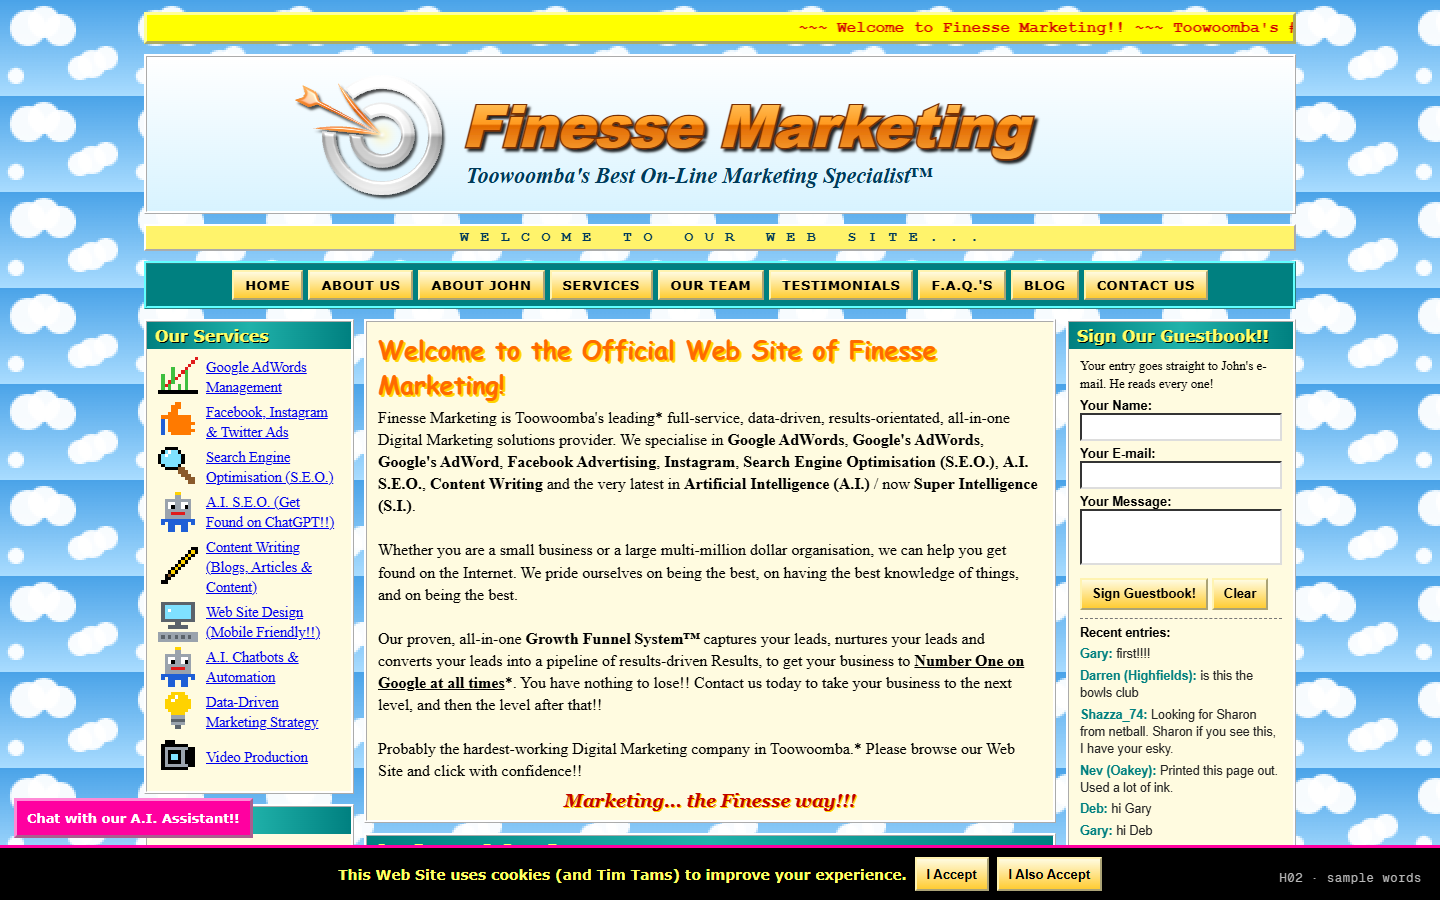
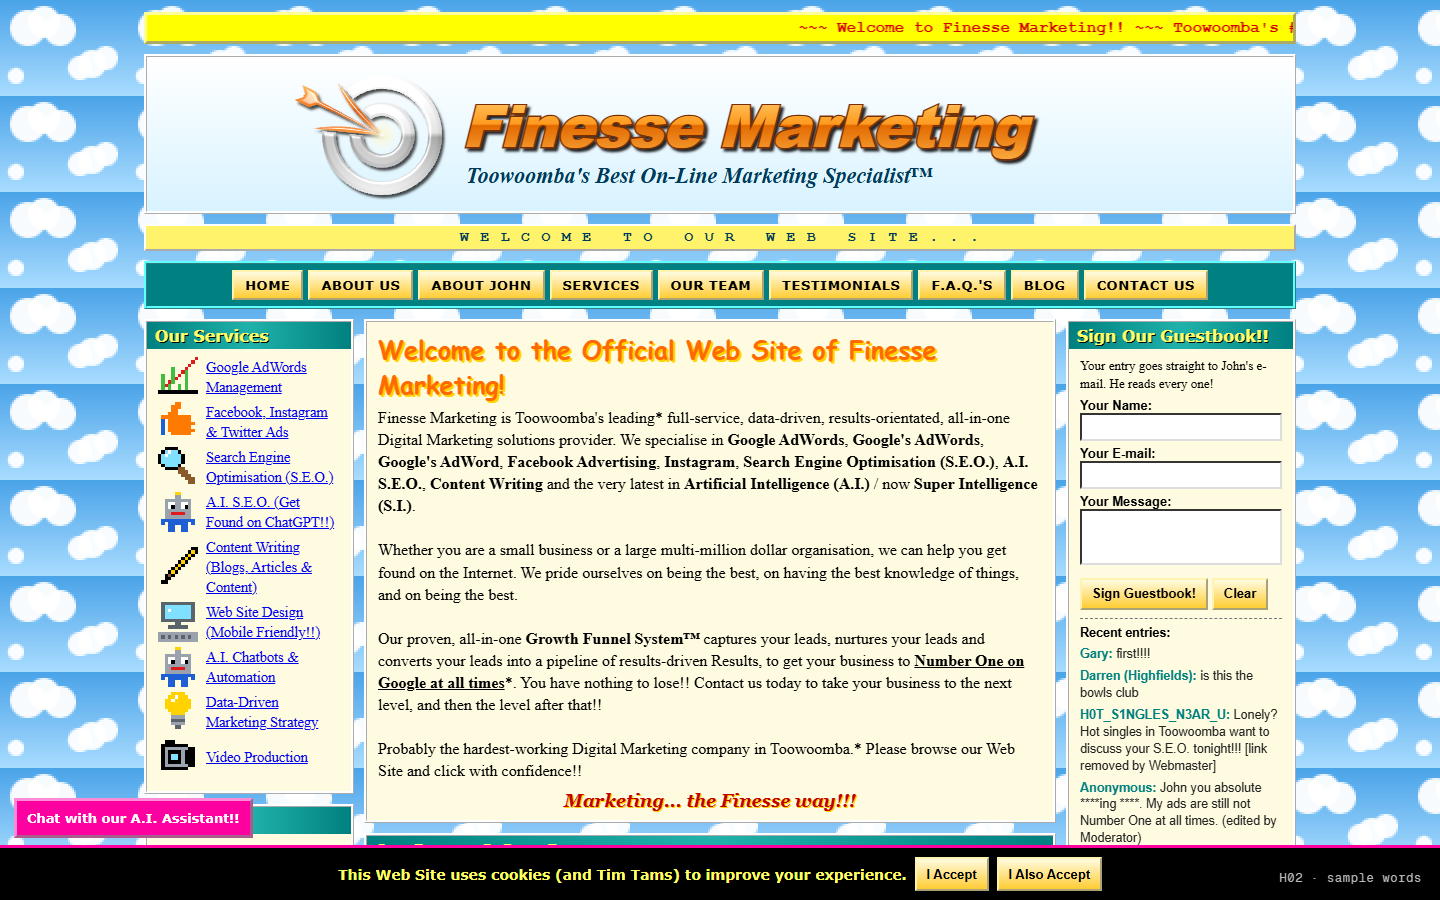
Hero ideas preview: Ninety-six 12:07 round

Changed region(s): [[0.75, 0.7778, 0.875, 0.9333]]

diff --git a/look/website-hero/ninety-six.html b/look/website-hero/ninety-six.html
@@ -99,6 +99,25 @@
 .gptl{list-style:none;margin:4px 0 4px 4px}
 .spaced{grid-column:1/-1;text-align:center;font:bold 15px "Courier New",monospace;color:#003a5a;background:#fff36b;border:2px outset #fff;padding:3px;letter-spacing:.08em}
 .slogan{font:italic bold 18px Georgia,serif;color:#c00000;text-align:center;margin:8px 0 0;text-shadow:1px 1px 0 #ffd200}
+.pk table{width:100%;font:13px Arial;border-collapse:collapse}
+.pk td{padding:4px 2px;border-bottom:1px dotted #999;vertical-align:top}
+.pk td:last-child{text-align:right;font-weight:bold;color:#c00000;white-space:nowrap}
+.pk small{font-weight:normal;color:#555}
+.rpg .menu{display:flex;gap:14px;align-items:flex-start;background:linear-gradient(#2a3fd6,#0b1470);border:3px solid #fff;outline:2px solid #000;border-radius:6px;padding:12px;color:#fff;font:bold 14px/1.35 "Courier New",monospace;text-shadow:1px 1px 0 #000}
+.rpg img{image-rendering:pixelated;flex:none;background:radial-gradient(circle at 50% 70%,rgba(255,255,255,.18),transparent 70%)}
+.rpg .st{flex:1;min-width:0}
+.rpg .nm{font-size:18px}.rpg .nm span{color:#ffd200;margin-left:8px}
+.rpg .cl{color:#9fe8ff}
+.rpg ul{list-style:none;margin-top:6px}
+.rpg li{display:grid;grid-template-columns:minmax(0,1fr) 110px 22px;gap:6px;align-items:center;font-size:13px}
+.rpg li i{height:9px;border:1px solid #fff;background:repeating-linear-gradient(90deg,#ffd200 0 9px,#ff7a00 9px 10px)}
+@media (max-width:520px){.rpg .menu{flex-direction:column;align-items:center}.rpg li{grid-template-columns:minmax(0,1fr) 70px 22px}}
+.steps{list-style:none;columns:2;column-gap:16px;font:16px/1.6 "Comic Sans MS","Comic Sans",cursive}
+.steps b{color:#ff6a00}
+.bundle{border:2px dashed #008080;background:#fff;padding:6px 7px;margin:6px 0;font:13px/1.35 Arial}
+.bundle b{display:block;color:#004a4a}
+.bundle .price{display:block;font:900 17px Impact,"Arial Black",sans-serif;color:#d40000}
+.bundle ul{margin:3px 0 0 16px}
 .kw{grid-column:1/-1;font:12px/1.5 Arial,sans-serif;color:#2b5d7a;text-align:justify;background:rgba(255,255,255,.55);padding:6px 8px;word-spacing:1px}
 .cookie{position:sticky;bottom:0;z-index:4;display:flex;flex-wrap:wrap;gap:8px;align-items:center;justify-content:center;background:#000;color:#ffff66;font:bold 14px Verdana,Arial,sans-serif;padding:9px;border-top:3px solid #ff00a0}
 .cookie button{font:bold 13px Arial;background:linear-gradient(#fffbe0,#ffcc33);border:2px outset #fff3b0;padding:4px 10px;min-height:34px;cursor:pointer}
@@ -223,14 +242,13 @@
       <div class="box welcome"><h2 title="Heading (welcome)">Welcome to the Official Web Site of Finesse Marketing!</h2>
         <p>Finesse Marketing is Toowoomba's leading* full-service, data-driven, results-orientated, all-in-one Digital Marketing solutions provider. We specialise in <b>Google AdWords</b>, <b>Google's AdWords</b>, <b>Google's AdWord</b>, <b>Facebook Advertising</b>, <b>Instagram</b>, <b>Search Engine Optimisation (S.E.O.)</b>, <b>A.I. S.E.O.</b>, <b>Content Writing</b> and the very latest in <b>Artificial Intelligence (A.I.)</b> / now <b>Super Intelligence (S.I.)</b>.<br><br>Whether you are a small business or a large multi-million dollar organisation, we can help you get found on the Internet. We pride ourselves on being the best, on having the best knowledge of things, and on being the best.<br><br>Our proven, all-in-one <b>Growth Funnel System&#8482;</b> captures your leads, nurtures your leads and converts your leads into a pipeline of results-driven Results, to get your business to <b><u>Number One on Google at all times</u></b>*. You have nothing to lose!! Contact us today to take your business to the next level, and then the level after that!!<br><br>Probably the hardest-working Digital Marketing company in Toowoomba.* Please browse our Web Site and click with confidence!!</p>
         <p class="slogan">Marketing... the Finesse way!!!</p></div>
-      <div class="box"><h3>Our Proven 3-Step Process</h3><p style="text-align:center;font:bold 18px 'Comic Sans MS','Comic Sans',cursive"><span style="color:#ff6a00">Step 1:</span> Funnel &nbsp;&#8594;&nbsp; <span style="color:#ff6a00">Step 2:</span> Also Funnel &nbsp;&#8594;&nbsp; <span style="color:#ff6a00">Step 3:</span> Results!!</p></div>
+      <div class="box"><h3>Our Proven 3-Step Process</h3><ol class="steps"><li><b>Step 1:</b> Funnel</li><li><b>Step 2:</b> Grow Your Funnel</li><li><b>Step 3:</b> Results!!</li><li><b>Step 4:</b> Retention</li><li><b>Step 5:</b> Re-Funnel the Retention</li><li><b>Step 3b:</b> Synergy (see Step 2)</li><li><b>Step 0:</b> Awareness (do this first)</li></ol><p style="font:12px Arial;text-align:center">All steps are proven.</p></div>
       <div class="box"><h3>What's New? <span class="new">NEW!</span></h3><ul class="news">
         <li>17-11-2026: We have updated our Web Site. Can you spot the change? (It is this sentence.)</li>
         <li>12-11-2026: Our Head of A.I. has been promoted to <b>Senior</b> Head of A.I. Congratulations John.</li>
         <li>03-11-2026: We now accept <b>Instagram</b>.</li>
         <li>28-10-2026: The office printer is working again. Thank you for your patience during this time.</li>
         <li>14-10-2026: <b>S.I.</b> is here. We are still reading the manual.</li>
-        <li>19-09-2026: Staff Christmas party confirmed. Table for one.</li>
         <li>05-09-2026: Our Google+ page has reached 1 follower.</li>
         <li>21-08-2026: We tried a new font. We have gone back to the old font.</li>
         <li>08-08-2026: The "What's New?" box is new. Welcome to the "What's New?" box.</li></ul></div>
@@ -248,6 +266,12 @@
         <div><img data-sprite="john" alt="" width="72" height="90">John Hewitt<br><b>Head of A.I.</b></div>
         <div><img data-sprite="john" alt="" width="72" height="90" title="John Hewitt (centre, left and right)">John Hewitt<br><b>Work Experience</b></div></div>
         <p style="text-align:center;font:13px Arial;margin-top:8px"><b>Employee of the Month:</b> John Hewitt (47 months running). "A real team player," says John Hewitt.<br>Last Friday the whole team did a trust fall. We do not recommend it for teams of one.</p></div>
+      <div class="box rpg"><h3>John's Stats</h3>
+        <div class="menu"><img data-sprite="knight" alt="Pixel art of John Hewitt as a knight with a bullseye shield" width="136" height="192" title="John Hewitt, Marketing Knight (Level 99)">
+        <div class="st"><p class="nm">JOHN <span>LV 99</span></p><p class="cl">Class: Marketing Knight</p><p>HP 9999/9999</p><p>MP &nbsp;999/999</p>
+        <ul>
+          <li>Google AdWords<i></i>10</li><li>Google's AdWords<i></i>10</li><li>Facebook<i></i>10</li><li>Twitter<i></i>10</li><li>MySpace<i></i>10</li><li>S.E.O.<i></i>10</li><li>A.I.<i></i>10</li><li>S.I.<i></i>10</li><li>Funnels<i></i>10</li><li>Synergy<i></i>10</li><li>Content Writing<i></i>10</li><li>Humility<i></i>10</li>
+        </ul></div></div></div>
       <div class="box"><h3>Our Values</h3><p class="mission" style="font-style:normal;font-weight:bold">Integrity. Excellence. Integrity. Google. Parking at rear.</p></div>
       <div class="box rant"><h3>A Message From John: Why We Will NEVER Use A.I. Slop</h3>
         <p class="gpt">Certainly! Here is a heartfelt, authentic rant about A.I. slop for your business website:</p>
@@ -261,13 +285,15 @@
         <p class="gpt">Would you like me to make it more personal, or add a call to action at the end?</p></div>
       <div class="box mission"><h3 style="font-style:normal">Our Mission</h3>To be the best Marketing company we can be, for the business of marketing businesses, through Marketing.</div>
       <div class="box faq"><h3>F.A.Q.'s</h3>
-        <p><b>Q: What is Google AdWords?</b><br>A: It is Words, for Ads, on Google.</p>
-        <p><b>Q: What is the difference between Google AdWords and Google's AdWords?</b><br>A: Great question. We specialise in both.</p>
-        <p><b>Q: What does S.I. stand for?</b><br>A: Super Intelligence. It is like A.I. but Super.</p>
-        <p><b>Q: Can you get me to Number One on Google?</b><br>A: Yes.* <b>Q: At all times?</b> A: Yes.*</p>
-        <p><b>Q: How much does it cost?</b><br>A: It depends. <b>Q: On what?</b> A: Thank you for your question.</p>
-        <p><b>Q: Is this the F.A.Q.'s?</b><br>A: Yes. This is the F.A.Q.'s.</p>
-        <p><b>Q: Who asks these questions?</b><br>A: John. He also answers them. It is a streamlined process.</p></div>
+        <p><b>Q: What is Google AdWords?</b><br>A: It is Google's term for its paid ads system, where you bid on keywords and you come up first on Google. Sometimes now you can use images and video too. And now also A.I. I am skilled at all of these, by the way.</p>
+        <p><b>Q: What is the difference between Google AdWords and Google Ads?</b><br>A: There is absolutely no difference. We specialise in both anyway, so it would not matter if there was.</p>
+        <p><b>Q: What does S.I. stand for?</b><br>A: Super Intelligence is the true name given to A.I. It is also more powerful than A.I. I am also a specialist at it.</p>
+        <p><b>Q: Can you get me to Number One on Google?</b><br>A: Yes.</p>
+        <p><b>Q: How much does it cost?</b><br>A: It depends. <b>Q: On what?</b> A: On how much money you can afford that month.</p>
+        <p><b>Q: Do you guarantee results?</b><br>A: We guarantee there will be results.</p>
+        <p><b>Q: Can I speak to your manager?</b><br>A: Speaking.</p>
+        <p><b>Q: Do you use A.I. to write your content?</b><br>A: Absolutely not. Please see our heartfelt rant above.</p>
+        <p><b>Q: My nephew does websites.</b><br>A: That is not a question.</p></div>
       <div class="box ctr">You are visitor number <span class="led" id="led"></span> since November 1998</div>
       <div class="rule"></div>
     </div>
@@ -279,23 +305,32 @@
         <div class="entries"><b style="color:#000">Recent entries:</b>
           <p><b>Gary:</b> first!!!!</p>
           <p><b>Darren (Highfields):</b> is this the bowls club</p>
+          <p><b>H0T_S1NGLES_N3AR_U:</b> Lonely? Hot singles in Toowoomba want to discuss your S.E.O. tonight!!! [link removed by Webmaster]</p>
+          <p><b>Anonymous:</b> John you absolute ****ing ****. My ads are still not Number One at all times. (edited by Moderator)</p>
           <p><b>Shazza_74:</b> Looking for Sharon from netball. Sharon if you see this, I have your esky.</p>
-          <p><b>Nev (Oakey):</b> Printed this page out. Used a lot of ink.</p>
+          <p><b>Crystal_XXX:</b> [This entry has been removed for violating our Guestbook Policy]</p>
+          <p><b>Nev (Oakey):</b> Printed this page out. Used a lot of ink. ****ing waste of ink to be honest.</p>
           <p><b>Deb:</b> hi Gary</p>
           <p><b>Gary:</b> hi Deb</p>
-          <p><b>Col:</b> FOR SALE ride on mower, goes well, ring Col</p>
+          <p><b>Gary:</b> Deb why are you on here</p>
           <p><b>xX_Jayden_Xx:</b> my nan made me sign this</p>
           <p><b>Jayden's Nan:</b> I did not</p>
-          <p><b>Anonymous:</b> test</p>
-          <p><b>Anonymous:</b> test 2</p>
+          <p><b>Big_Rod_69:</b> nice. [rest of entry removed by Webmaster]</p>
+          <p><b>Former Client:</b> He said "data-driven" 47 times in one meeting. I counted. Still drove no ****ing data.</p>
           <p><b>Bev:</b> worked out the big writing thank you</p>
           <p><b>Bev:</b> worked out the big writing thank you</p>
-          <p><b>Bev:</b> worked out the big writing thank you</p>
+          <p><b>Anonymous:</b> is this site a joke</p>
+          <p><b>Webmaster:</b> No.</p>
           <p><b>CHEAP DESIGNER WATCHES:</b> click here for BEST PRICE!!!</p>
         </div>
       </div>
       <div class="box si"><h3>Ask Our S.I.!!</h3><form id="si" autocomplete="off"><label for="siq" style="font:bold 13px Arial">Ask anything:</label><input id="siq" style="width:100%;min-height:28px;border:2px inset #888"><button type="submit" class="b96" style="margin-top:6px;cursor:pointer">Ask</button></form><p id="sia" style="font:bold 14px 'Comic Sans MS','Comic Sans',cursive;margin-top:6px" aria-live="polite"></p></div>
-      <div class="box"><h3>Our Packages</h3><table style="width:100%;font:13px Arial;border-collapse:collapse" title="Packages (all of them)"><tr><td>Bronze</td><td style="text-align:right">P.O.A.</td></tr><tr><td>Silver</td><td style="text-align:right">P.O.A.</td></tr><tr><td>Gold</td><td style="text-align:right">P.O.A.</td></tr><tr><td><b>Data-Driven Platinum</b></td><td style="text-align:right"><b>P.O.A.!!</b></td></tr><tr><td>Super Intelligence</td><td style="text-align:right">Tues &amp; Thurs</td></tr></table></div>
+      <div class="box pk"><h3>Everything Is A Package!!</h3>
+        <div class="bundle"><b>The Starter Funnel Bundle&#8482;</b><span class="price">$14,999/month</span><ul><li>Google AdWords</li><li>Google's AdWords</li><li>1 x Facebook Post (per quarter)</li><li>Synergy</li><li>Monthly Synergy Report</li></ul></div>
+        <div class="bundle"><b>Growth Accelerator Pro Max&#8482;</b><span class="price">$49,999/month</span><ul><li>Everything in Starter, plus:</li><li>S.E.O. and A.I. S.E.O.</li><li>Content Writing (up to 3 words a month)</li><li>Funnel Maintenance</li><li>Twitter</li></ul></div>
+        <div class="bundle"><b>Enterprise Synergy Suite&#8482;</b><span class="price">$149,999/month</span><ul><li>Everything in Pro Max, plus:</li><li>Super Intelligence (S.I.)</li><li>Retention</li><li>MySpace Management</li><li>Google+ Optimisation</li><li>Priority Lunch Access to Finesse Bot</li><li>Dedicated Account Manager (John)</li></ul></div>
+        <div class="bundle"><b>Number One At All Times&#8482;</b><span class="price">$9,999,999/month*</span><ul><li>Number One</li><li>At all times*</li></ul></div>
+        <p style="font:11px Arial;margin-top:5px">Minimum term 24 months. All packages include a free Package. Mates Rates: full price.</p></div>
       <div class="star">FREE E-BOOK!!<br>7 Secrets Google Doesn't Want You To Know!!</div>
       <div class="badge" style="background:#ff7a00;color:#fff">Now with A.I.!!<br><span style="font-weight:normal">(and S.I.)</span></div>
       <div class="badge" style="background:#ffff66">Get to #1 on Google<br>at ALL TIMES!!*</div>
@@ -305,7 +340,7 @@
     <a class="cta96" href="#" title="Click HERE to click here">CLICK HERE to Download our FREE Growth Funnel Blueprint (PDF, 0 pages)!!!</a>
     <p style="grid-column:1/-1;text-align:center"><button type="button" class="b96" id="quote" style="font-size:16px;padding:8px 18px;cursor:pointer;position:relative;transition:transform .25s">Get A Quote!!</button></p>
     <p class="kw" id="kw">Google AdWords Toowoomba, Google's AdWords Toowoomba City, Facebook Ads East Toowoomba, Twitter Marketing South Toowoomba, A.I. SEO North Toowoomba, Google AdWords Middle Ridge, Web Site Design Rangeville, On-Line Marketing Newtown, Number One on Google Kearneys Spring, Instagram Specialist Harristown, S.I. Marketing Wilsonton, A.I. Glenvale, Facebook Darling Heights, Google Drayton, Data-Driven Centenary Heights, AdWords Mount Lofty, SEO Harlaxton, Marketing Rockville, Web Site Cranley, Google's AdWords Highfields, AdWords Cabarlah, Marketing Westbrook, SEO Wyreema, Facebook Ads Cambooya, Google Kingsthorpe, A.I. Gowrie Junction, Twitter Meringandan, On-Line Oakey, Number One on Google Pittsworth, AdWords Crows Nest, S.I. Goombungee, Marketing Clifton, SEO Millmerran, Google AdWords Dalby, Web Site Warwick, Facebook Allora, Funnels Prince Henry Heights, Growth Funnel Mount Kynoch, Pipeline Redwood, Marketing Darling Downs, Best Marketing Darling Downs, Cheap Marketing Darling Downs, Marketing Near Me, Marketing Near You, Toowomba Marketing, Toowoombah AdWords, Twoomba SEO, Towoomba Google, Toowoomba Toowoomba Toowoomba, marketing marketing, google</p>
-    <p class="foot" id="foot"><a href="#">Home</a> | <a href="#">Services</a> | <a href="#">Privacy Policy</a> | <a href="#">Terms &amp; Conditions</a> | <a href="#">Site Map</a> | <a href="#">Contact the Webmaster</a><br>Copyright &copy; 2026 J-Money Productions&#8482;. All Rights Reserved. Last updated: 17-11-2026.<br>This Web Site is best viewed at 1920 x 1080 on a desktop computer with your eyes.<br><span class="fine">*Not a guarantee. Results not typical. Rankings may vary. Number One not available at all times. **Our Number One priority may vary.</span></p>
+    <p class="foot" id="foot"><a href="#">Home</a> | <a href="#">Services</a> | <a href="#">Privacy Policy</a> | <a href="#">Terms &amp; Conditions</a> | <a href="#">Site Map</a> | <a href="#">Contact the Webmaster</a><br>Copyright &copy; 2026 J-Money Productions&#8482;. All Rights Reserved. Last updated: 17-11-2026.<br>Now accepting payment in Cryptocurrency. Stay tuned for the launch of our new meme coin, $FUNNEL.<br>This Web Site is best viewed at 1920 x 1080 on a desktop computer with your eyes.<br><span class="fine">*Not a guarantee. Results not typical. Rankings may vary. Number One not available at all times. **Our Number One priority may vary.</span></p>
   </div>
   <div class="cookie" id="cookie">This Web Site uses cookies (and Tim Tams) to improve your experience. <button type="button">I Accept</button><button type="button">I Also Accept</button></div>
   <button class="bot" id="bot" type="button">Chat with our A.I. Assistant!!</button>
@@ -347,10 +382,11 @@
     cam:['............','..kkk.......','.kkkkkkkk...','.kgggggggkk.','.kgkkkkgkkk.','.kgkcckgkkk.','.kgkcckgkkk.','.kgkkkkgkkk.','.kgggggggkk.','.kkkkkkkk...','............','............'],
     pen:['..........kk','.........kyk','........kyk.','.......kyk..','......kyk...','.....kyk....','....kyk.....','...kyk......','..knk.......','..kk........','.kk.........','............'],
     sun:['.....y......','..y..y..y...','...yyyyy....','..yyyyyyy...','yyyyyoyyyyy.','..yyyyyyy...','...yyyyy....','..y..y..y...','.....y......','............','............','............'],
+    knight:['..........oo.....','.........ooo.....','........oo.......','.......kkkkkk....','......kgwggggk...','......kggggggk...','......kyyyyyyk...','......kssssssk...','......kskssksk...','......kssssssk...','......khsrrshk...','.......khhhhk....','..kkk..kkkkk...c.','.kwoowkgwgggk..c.','.kowwokgggggggkc.','.kowowkggyggggkc.','.kowwokgggggggkyy','.kwoowkgggggggk.y','..kkk.kyyyyyyyk..','......kdddkdddk..','......kgggkgggk..','......kgggkgggk..','......knnnknnnk..','.....knnnk.knnnk.'],
     john:['....hhhhhh....','...hhhhhhhh...','...hssssssh...','...ssssssss...','...sksssskss..','...ssssssss...','....ssrrss....','.....ssss.....','...dddssddd...','..dddddddddd..','.dddddwwdddddd','.ddddddwddddd.','.dddddddddddd.','.dddddddddddd.','.dddddddddddd.','.dddddddddddd.']
   };
   function sprite(name){const m=SPR[name],h=m.length,w=m[0].length,c=document.createElement('canvas');c.width=w;c.height=h;const g=c.getContext('2d');
-    for(let y=0;y<h;y++)for(let x=0;x<w;x++){const ch=m[y][x];if(ch!=='.'){g.fillStyle=PAL[ch];g.fillRect(x,y,1,1)}}return c.toDataURL()}
+    for(let y=0;y<h;y++)for(let x=0;x<w;x++){const ch=m[y][x]||'.';if(ch!=='.'){g.fillStyle=PAL[ch];g.fillRect(x,y,1,1)}}return c.toDataURL()}
   document.querySelectorAll('img[data-sprite]').forEach(i=>i.src=sprite(i.dataset.sprite));
   (()=>{const c=document.createElement('canvas');c.width=64;c.height=48;const g=c.getContext('2d');const gr=g.createLinearGradient(0,0,0,48);gr.addColorStop(0,'#4aa3e8');gr.addColorStop(1,'#a9dcff');g.fillStyle=gr;g.fillRect(0,0,64,48);
     g.fillStyle='rgba(255,255,255,.95)';[[14,14,9],[22,11,8],[30,15,8],[46,32,7],[53,29,6],[40,34,6],[8,38,4]].forEach(([x,y,r])=>{g.beginPath();g.arc(x,y,r,0,7);g.fill()});
